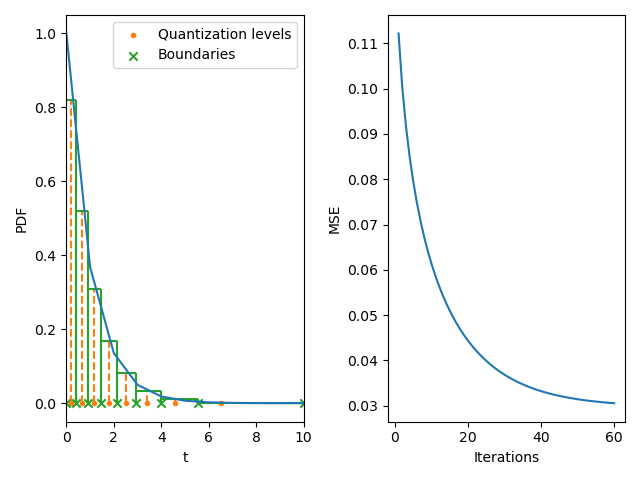
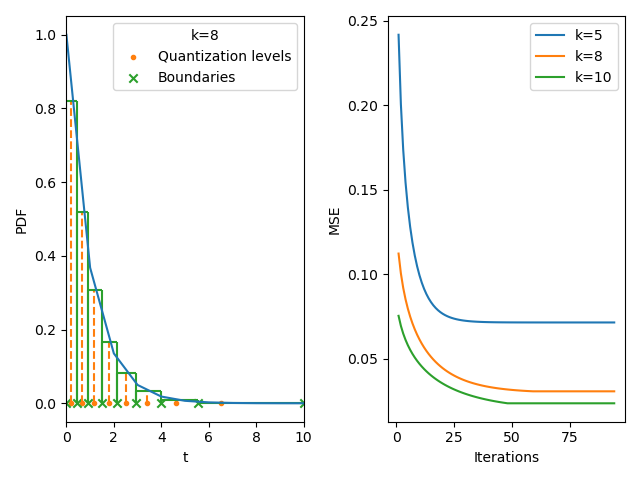
add two more lines

diff --git a/main.py b/main.py
@@ -14,7 +14,7 @@ if __name__ == '__main__':
     y = [pdf(l, i) for i in x]
 
     # quantization
-    levels, b, MSE = quantize(l, k, thres, x, timeout)
+    levels, b, MSE_8 = quantize(l, k, thres, x, timeout)
 
     print(str(len(b)) + " Boundaries:", b)
     print(str(len(levels)) + " Quantization levels:", levels)
@@ -39,12 +39,34 @@ if __name__ == '__main__':
     axs[0].set_ylabel("PDF")
     axs[0].set_xlabel("t")
 
-    axs[0].legend()
+    axs[0].legend(title="k=" + str(k))
 
-    axs[1].plot(range(len(MSE)), MSE)
+    # quantization
+    k = 5
+    levels, b, MSE_5 = quantize(l, k, thres, x, timeout)
+
+    # quantization
+    k = 10
+    levels, b, MSE_10 = quantize(l, k, thres, x, timeout)
+
+    max_len = max(len(MSE_5), len(MSE_8), len(MSE_10))
+
+    if len(MSE_5) < max_len:
+        MSE_5.extend([MSE_5[-1]] * (max_len - len(MSE_5)))
+
+    if len(MSE_8) < max_len:
+        MSE_8.extend([MSE_8[-1]] * (max_len - len(MSE_8)))
+
+    if len(MSE_10) < max_len:
+        MSE_10.extend([MSE_10[-1]] * (max_len - len(MSE_10)))
+
+    axs[1].plot(range(len(MSE_5)), MSE_5, label="k=5")
+    axs[1].plot(range(len(MSE_8)), MSE_8, label="k=8")
+    axs[1].plot(range(len(MSE_10)), MSE_10, label="k=10")
     # axs[1].plot(range(len(MSE)), MSE, marker='x')
     axs[1].set_xlabel("Iterations")
     axs[1].set_ylabel("MSE")
+    axs[1].legend()
 
     plt.tight_layout()
     plt.show()
